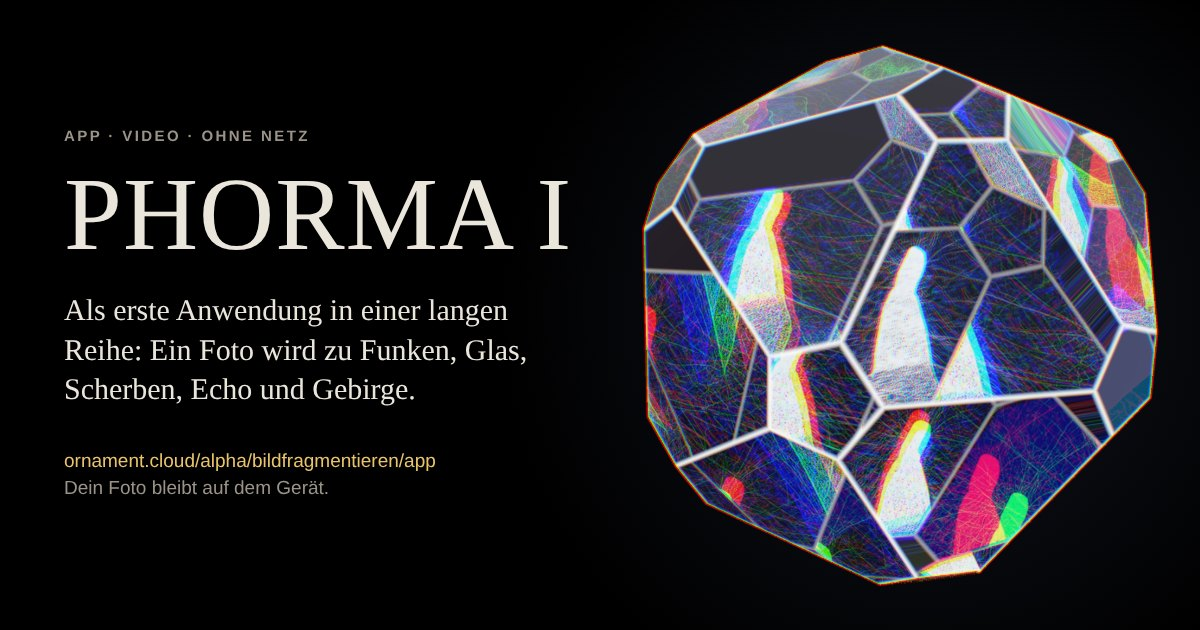
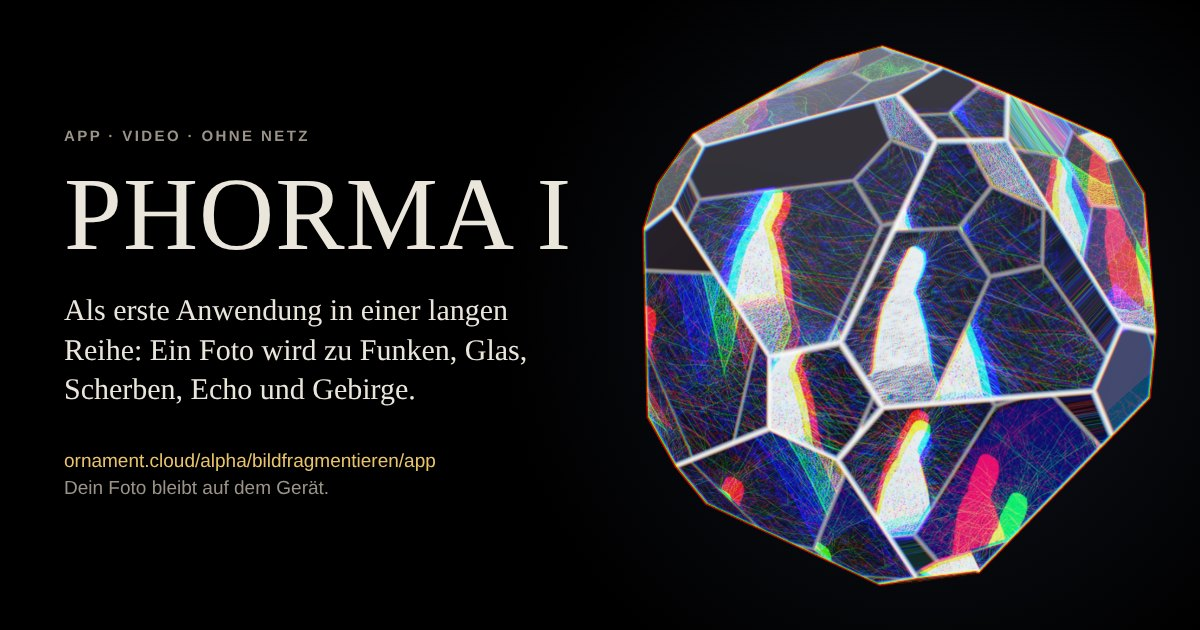
PHORMA I: schärferes Beitragsbild, auch für Bildschirme mit hoher Dichte
Wunsch: «ein besseres Beitragsbild für PHORMA I». Der Kristall wird doppelt so gross gerechnet (2160 × 2700) und erst dann
verkleinert; dazu vorschau-phorma-i-2x.jpg (1280 × 1600) per srcset – auf Telefonen und Retina-Bildschirmen wurde das Bild
mit 640 × 800 zwei- bis dreifach vergrössert und wirkte weich. Ebenso PHORMA II (vorschau-phorma-ii-2x.jpg). App-Symbole und
Vorschaukachel von PHORMA I aus demselben schärferen Bild. Apps-Tests auf sieben Karten.

Claude-Session: https://claude.ai/code/session_01DNggfoZaFgmyDh3WFuhLP1

diff --git a/apps/index.html b/apps/index.html
@@ -67,7 +67,7 @@
            (assets/vorschau-phorma-ii.jpg aus tools/phorma-ii-bilder.mjs) -->
       <article class="card">
         <a class="thumb" href="../alpha/phorma-ii/" tabindex="-1" aria-hidden="true">
-          <img src="../assets/vorschau-phorma-ii.jpg" alt="" width="640" height="800" loading="lazy">
+          <img src="../assets/vorschau-phorma-ii.jpg" srcset="../assets/vorschau-phorma-ii.jpg 1x, ../assets/vorschau-phorma-ii-2x.jpg 1.6875x" alt="" width="640" height="800" loading="lazy">
         </a>
         <div class="body">
           <h3>PHORMA II</h3>
@@ -79,10 +79,11 @@
 
       <!-- PHORMA I: Alpha-Version, als App installierbar, seit 17. Oktober 2026 als erste Karte (Wunsch: «Jetzt daraus eine App bauen ("PHORMA I"). Und bei den Apps
            als Beitrag präsentieren (als erster Eintrag)», REGELN §14). Führt auf die App-Seite app/ (eigene Vorschaukachel beim Teilen).
-           Bild: eine Kristallansicht aus der Anwendung selbst (assets/vorschau-phorma-i.jpg aus tools/phorma-bilder.mjs) -->
+           Bild: eine Kristallansicht aus der Anwendung selbst (assets/vorschau-phorma-i.jpg aus tools/phorma-bilder.mjs); seit 19. Oktober 2026 doppelt so
+           gross gerechnet und mit einer Fassung für Bildschirme mit hoher Dichte (Wunsch: «ein besseres Beitragsbild für PHORMA I») -->
       <article class="card">
         <a class="thumb" href="../alpha/bildfragmentieren/app/" tabindex="-1" aria-hidden="true">
-          <img src="../assets/vorschau-phorma-i.jpg" alt="" width="640" height="800" loading="lazy">
+          <img src="../assets/vorschau-phorma-i.jpg" srcset="../assets/vorschau-phorma-i.jpg 1x, ../assets/vorschau-phorma-i-2x.jpg 2x" alt="" width="640" height="800" loading="lazy">
         </a>
         <div class="body">
           <h3>PHORMA I</h3>

diff --git a/README.md b/README.md
@@ -23,7 +23,7 @@ Alles liegt auf dem eigenen Server – es werden keine Dateien von claude.ai, CD
   Aktiv ist, wo man ist (`aria-current="page"`; auf Seiten darunter `true`), das Kästchen hat dann einen kräftigeren Rand.
   Das Markup kommt aus `tools/kopfleiste.mjs` (die Erzeuger des Zettelkastens und der Alpha-Texte holen es dort; `node tools/kopfleiste-einsetzen.mjs <seite>` setzt es in Seiten, die von Hand gepflegt werden). Seiten ohne `styles.css` (Zettelkasten, OMNA COLOR) laden `kopfleiste.css` mit denselben Regeln und setzen die Farben über `--menu-text`, `--menu-flaeche`, `--menu-rand`, `--menu-schrift`, `--menu-akzent`.
   `tests/struktur.test.mjs` prüft Reihenfolge, Ziele, Symbole und aktiven Eintrag auf allen rund 590 Seiten mit Kopf und dass `kopfleiste.css` dieselben Regeln hat wie `styles.css`. News, Termine und Portfolio bleiben unter ihren Adressen, tragen das Menü und sind sonst nicht verlinkt (Entscheid von Christian, 2. Oktober 2026)
-- `apps/` – Seite «Apps»: Lead seit dem 19. Oktober 2026 nur «Einige kleine Apps zum Ausprobieren: direkt hier auf der Seite oder als Download.» (Wunsch: «Bei den Apps keine Einleitung»); die Beiträge ORNA und ORMA (ORMA als Alpha gekennzeichnet; Vorschau ist das drehende Rad aus `icons.js`), in dieser Reihenfolge; seit dem 11. Oktober 2026 davor, als erste Karte, The Fictory (Alpha, als App installierbar; Vorschaukachel `assets/vorschau-the-fictory-app.jpg`: das App-Symbol als Kachel über dem Raster); seit dem 17. Oktober 2026 ganz zuerst PHORMA I (Alpha, als App installierbar; Beitragsbild `assets/vorschau-phorma-i.jpg`: eine Kristallansicht aus der Anwendung; Karte und App-Seite mit «Als erste Anwendung in einer langen Reihe: PHORMA I.»); seither vier Karten zwei mal zwei (`.grid--paare`) **Seit dem 19. Oktober 2026 in drei Gruppen** (Wunsch: «Leg es zu den Apps. Unterscheide dort: bild/video: PHORMA III, PHORMA I, THE FICTORY – text/theorie: ORMA, ORNA – gestaltung: OMNA COLOR»): «Bild und Video» (PHORMA III, PHORMA I, The Fictory), «Text und Theorie» (ORMA, ORNA), «Gestaltung» (OMNA COLOR); je Gruppe ein Titel (h2) und ein Raster `.grid--paare`, die Titel der Karten als h3 (Gestaltung im `<style>` der Seite). PHORMA III mit dem Beitragsbild `assets/vorschau-phorma-iii.jpg` (dasselbe Motiv wie die Vorschaukachel, die Kugel aus Fäden mit der Traube; Wunsch: «Die Kachel ist toll. Kannst du das Bild auch im Beitrag bringen?»), Tags App, Video, Ton, Alpha, führt auf die App-Seite.
+- `apps/` – Seite «Apps»: Lead seit dem 19. Oktober 2026 nur «Einige kleine Apps zum Ausprobieren: direkt hier auf der Seite oder als Download.» (Wunsch: «Bei den Apps keine Einleitung»); die Beiträge ORNA und ORMA (ORMA als Alpha gekennzeichnet; Vorschau ist das drehende Rad aus `icons.js`), in dieser Reihenfolge; seit dem 11. Oktober 2026 davor, als erste Karte, The Fictory (Alpha, als App installierbar; Vorschaukachel `assets/vorschau-the-fictory-app.jpg`: das App-Symbol als Kachel über dem Raster); seit dem 17. Oktober 2026 ganz zuerst PHORMA I (Alpha, als App installierbar; Beitragsbild `assets/vorschau-phorma-i.jpg`: eine Kristallansicht aus der Anwendung, seit dem 19. Oktober 2026 doppelt so gross gerechnet und mit `vorschau-phorma-i-2x.jpg` (1280 × 1600) für Bildschirme mit hoher Dichte, Wunsch: «ein besseres Beitragsbild für PHORMA I»; ebenso PHORMA II mit `vorschau-phorma-ii-2x.jpg`; Karte und App-Seite mit «Als erste Anwendung in einer langen Reihe: PHORMA I.»); seither vier Karten zwei mal zwei (`.grid--paare`) **Seit dem 19. Oktober 2026 in drei Gruppen** (Wunsch: «Leg es zu den Apps. Unterscheide dort: bild/video: PHORMA III, PHORMA I, THE FICTORY – text/theorie: ORMA, ORNA – gestaltung: OMNA COLOR»): «Bild und Video» (PHORMA III, PHORMA I, The Fictory), «Text und Theorie» (ORMA, ORNA), «Gestaltung» (OMNA COLOR); je Gruppe ein Titel (h2) und ein Raster `.grid--paare`, die Titel der Karten als h3 (Gestaltung im `<style>` der Seite). PHORMA III mit dem Beitragsbild `assets/vorschau-phorma-iii.jpg` (dasselbe Motiv wie die Vorschaukachel, die Kugel aus Fäden mit der Traube; Wunsch: «Die Kachel ist toll. Kannst du das Bild auch im Beitrag bringen?»), Tags App, Video, Ton, Alpha, führt auf die App-Seite.
   **Seit dem 19. Oktober 2026 als fünfte und letzte Karte OMNA COLOR** (Wunsch: «"ORMA COLOR" [gemeint OMNA COLOR] herausnehmen, sowohl als APP wie als Web-Anwendung bauen und bei den APPs (als letzte) unterbringen»): Bild `assets/vorschau-omna-color-app.jpg` (das App-Symbol als Kachel über einem leisen Rad), zwei Wege «Als App» (die App-Seite `alpha/omna-color/app/`) und «Im Browser spielen» (`alpha/omna-color/`); vorher ein Beitrag auf «Web». Mit fünf Karten steht OMNA COLOR allein in der letzten Reihe.
 - `masterprompts/` – Seite «Masterprompts»: die vier Prüfraster als Beiträge, in der Reihenfolge der Alpha-Übersicht: «Nebeneinander und Nacheinander», «Der Verteilapparat des Körpers»,
   «Prüfraster für Gesellschaftskonzepte», «Prüfraster journalistischer Texte» (alle als Alpha gekennzeichnet, die letzten beiden «In Arbeit»); zwei mal zwei (`.grid--paare`), die Vorschauen sind gezeichnete Vierfelder, Dreieck und Zeilen (SVG in der Seite)
